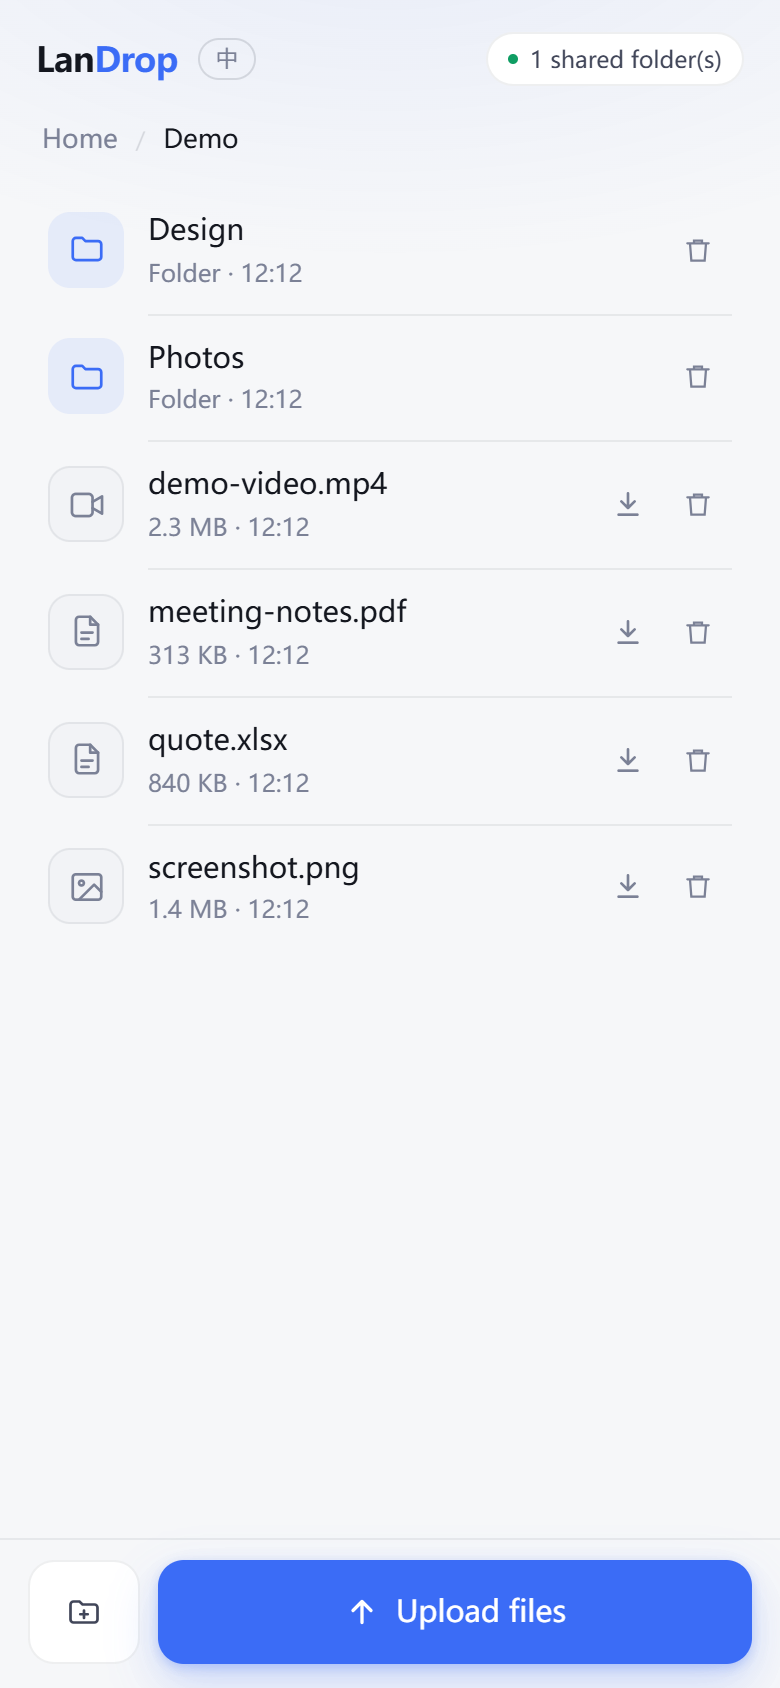
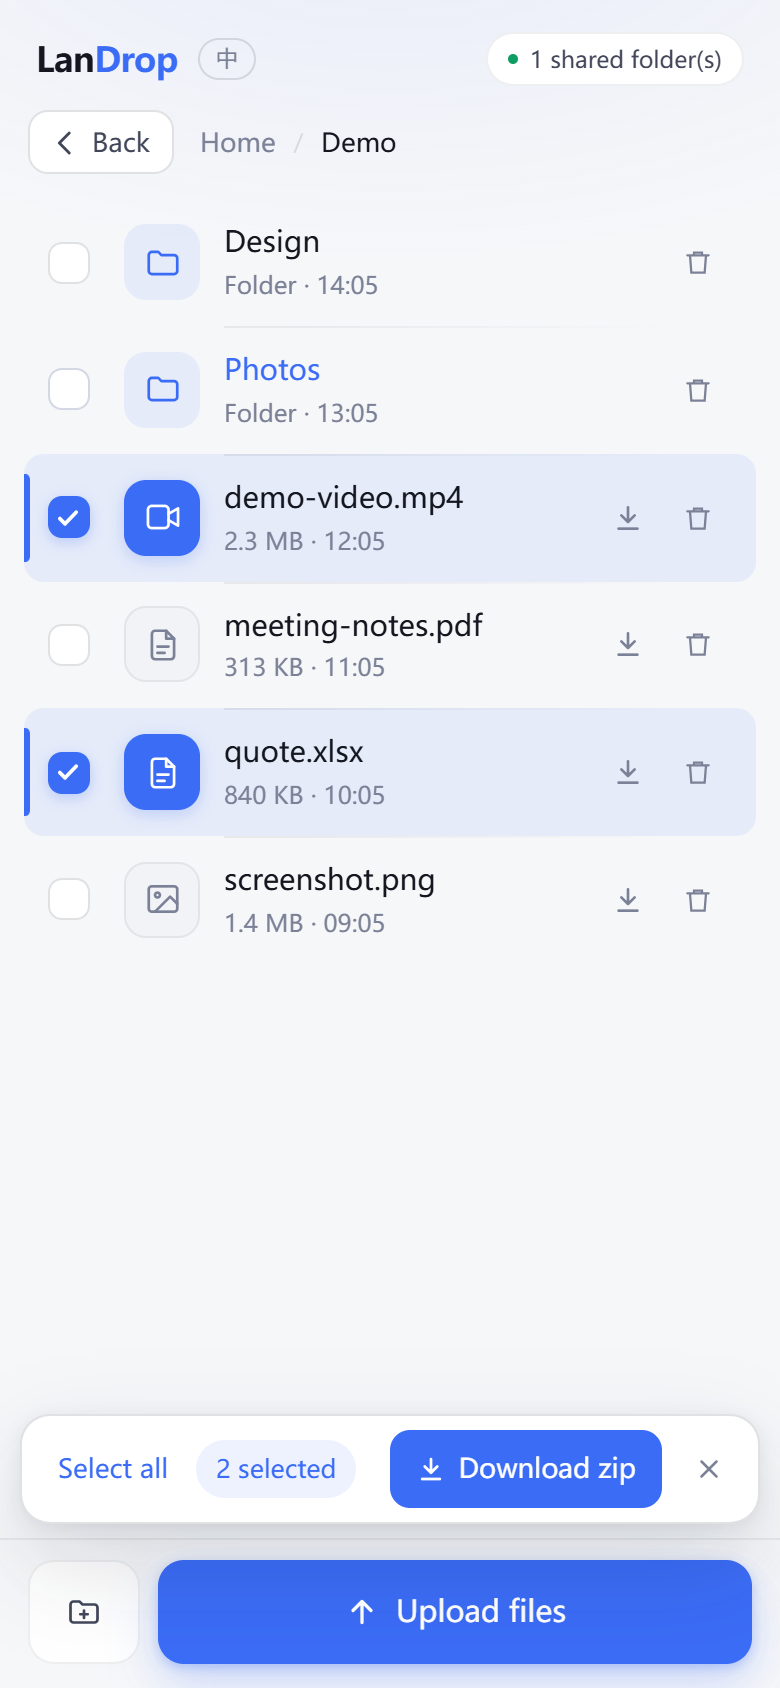
docs: refresh README screenshots for the v0.2.0 browser UI
Regenerate all four mobile screenshots at 2x against the real page: per-row checkboxes, the back button, the selected state and the batch-download bar. Update both captions accordingly and ignore the playwright-cli cache.

diff --git a/README.md b/README.md
@@ -15,7 +15,7 @@ Point LanDrop at a folder and start the service. The other end opens a browser a
   <img src="docs/mobile.png" width="300" alt="LanDrop on a phone, light theme">
   <img src="docs/mobile-dark.png" width="300" alt="LanDrop on a phone, dark theme">
 </p>
-<p align="center"><sub>The browser UI (screenshots show the v0.1.0 layout). v0.2.0 adds per-row checkboxes for batch download, a back button and a selection bar. Theme follows the system.</sub></p>
+<p align="center"><sub>The browser UI with multi-select. Checkboxes pick files and folders for batch download; tapping a folder name opens it. Theme follows the system; language switches from the top bar.</sub></p>
 
 **Written entirely by AI.** Every line of Go, TypeScript, CSS, build configuration and documentation in this repository was produced by an AI coding agent.
 

diff --git a/README.zh-CN.md b/README.zh-CN.md
@@ -15,7 +15,7 @@
   <img src="docs/mobile.zh-CN.png" width="300" alt="LanDrop 手机端 · 浅色">
   <img src="docs/mobile.zh-CN-dark.png" width="300" alt="LanDrop 手机端 · 深色">
 </p>
-<p align="center"><sub>浏览器端界面（截图为 v0.1.0 布局）。v0.2.0 增加了逐行复选框用于批量下载、返回按钮和选择栏。主题跟随系统。</sub></p>
+<p align="center"><sub>浏览器端的多选界面。复选框勾选文件和文件夹用于批量下载，点文件夹名称进入目录。主题跟随系统，语言可在顶栏切换。</sub></p>
 
 **本项目全部由 AI 编写。** 仓库中的 Go、TypeScript、CSS、构建配置和文档，每一行都由 AI 生成。
 
